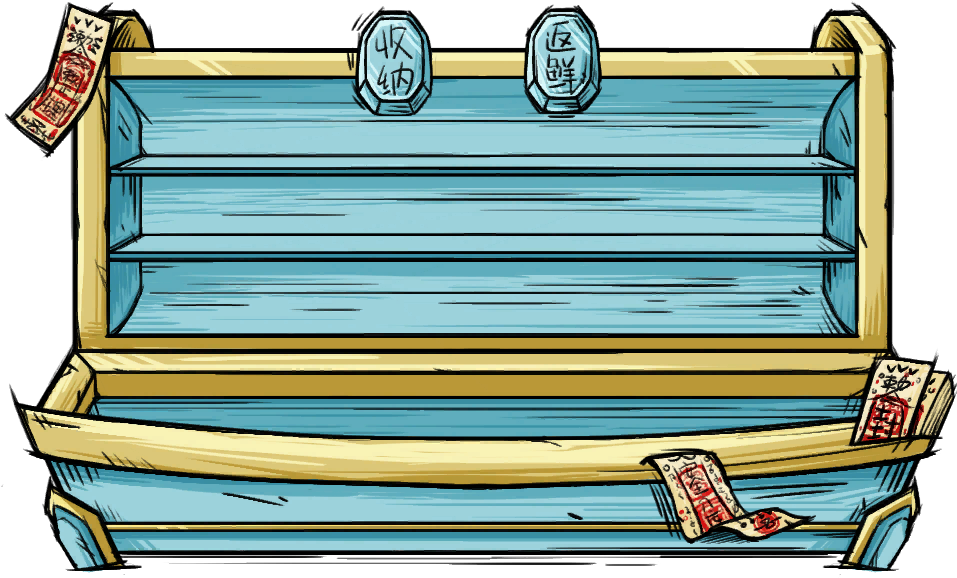
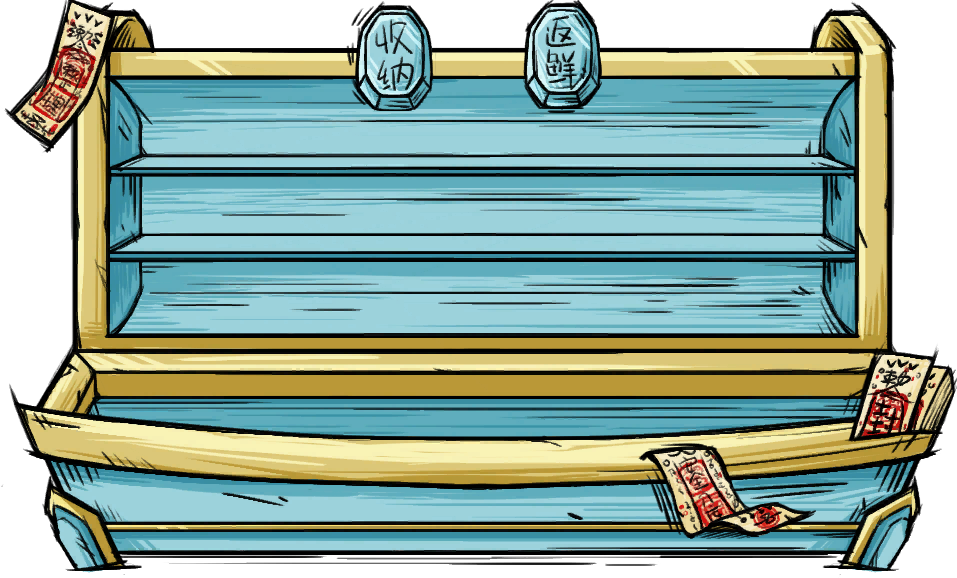
内容：纳物箱按钮整组再上移 5 像素（累计上移 10px）
陛下一句「再往上 5 个像素」：

- compose_box_ui.py 的 GROUP_NUDGE 从 (0,-5) 改成 (0,-10)，仍是**整组**微调
- 平移量：x −1.5、y +56（上一次 +61），5 个按钮统一再上移 5px，相对位置不变、都在箱体内

预览已确认给到新图（200，226357 字节）。校验：无错误、无失败项。

diff --git a/tools/compose_box_ui.py b/tools/compose_box_ui.py
@@ -41,7 +41,7 @@ OUT = os.path.join(ROOT, "images", "lingjie", "anim", "huangjie_box_ui.png")
 PANEL_POS_Y = 250             # 面板上沿对应的控件 y（见文件头推导）
 MARGIN = 6                    # 整组平移后，按钮离面板边缘至少留这么多像素
 # 自动平移之后，用户再要求的**整组**微调（正数 = 往右下）。依旧是整组动，不单独挪。
-GROUP_NUDGE = (0, -5)
+GROUP_NUDGE = (0, -10)
 BUTTONS_LIST = [
     ("lj_huangjie_box_sort_normal.png", -415, 230),    # 整理
     ("lj_huangjie_box_collect.png", -85, 250),         # 收纳
